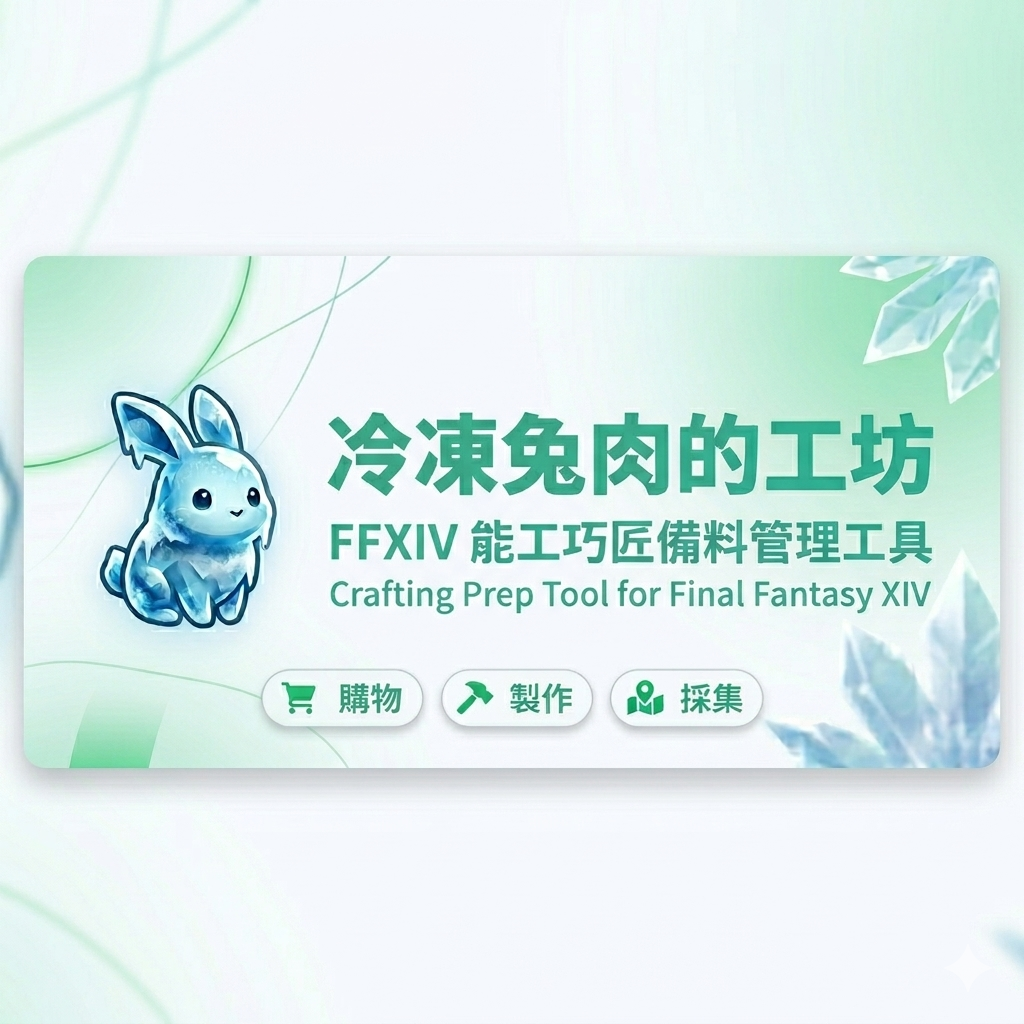
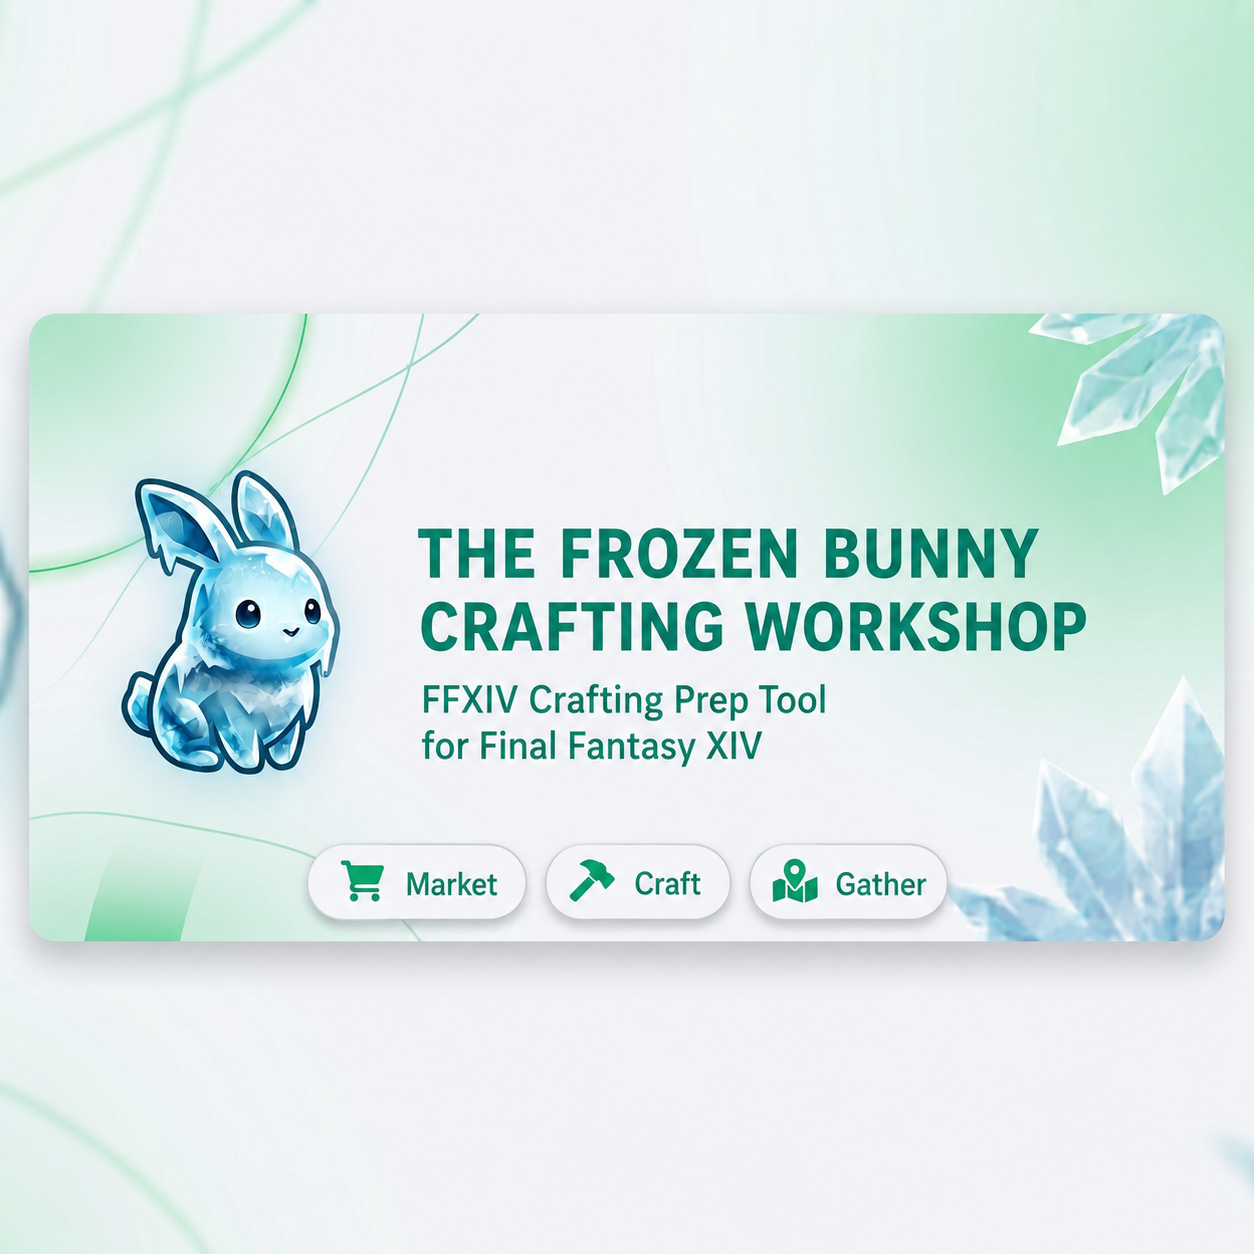
Update international SEO metadata

diff --git a/index.html b/index.html
@@ -1,120 +1,137 @@
 <!doctype html>
-<html lang="zh-TW">
+<html lang="en">
   <head>
     <meta charset="UTF-8" />
     <meta name="viewport" content="width=device-width, initial-scale=1.0" />
 
-    <!-- ===== 基本 SEO ===== -->
-    <title>冷凍兔肉的工坊 | FFXIV 能工巧匠備料管理工具</title>
-    <meta name="description" content="冷凍兔肉的工坊 — 為 FF14 / FFXIV 能工巧匠打造的備料管理神器。輸入製作清單，系統自動拆解配方、查詢市場即時價格、估算成本與時程，生成清晰的待辦清單。" />
-    <meta name="keywords" content="冷凍兔肉, 冷凍兔肉的工坊, FF14, FFXIV, 最終幻想14, 最終幻想XIV, 能工巧匠, 巧匠, 備料台, 備料管理, 製作清單, 採集, 市場板, Universalis, Teamcraft" />
-    <meta name="author" content="冷凍兔肉 (emu-rabbit)" />
+    <!-- SEO -->
+    <title>The Frozen Bunny Crafting Workshop | FFXIV Crafting Prep Tool</title>
+    <meta
+      name="description"
+      content="Plan Final Fantasy XIV crafting prep with market prices, material breakdowns, gathering routes, vendor checks, and multilingual item support."
+    />
+    <meta
+      name="keywords"
+      content="FFXIV crafting, Final Fantasy XIV crafting, FF14 crafting planner, FFXIV crafting prep, FFXIV market board, Universalis, Teamcraft, gathering routes, material calculator, Frozen Bunny Workshop"
+    />
+    <meta name="author" content="Frozen Bunny (emu-rabbit)" />
+    <meta name="application-name" content="The Frozen Bunny Crafting Workshop" />
+    <meta name="theme-color" content="#0f8a70" />
     <meta name="robots" content="index, follow" />
     <link rel="canonical" href="https://emu-rabbit.github.io/frozen_rabbit_workshop/" />
 
-    <!-- ===== 語言與地區 ===== -->
-    <meta name="language" content="zh-TW" />
+    <!-- Languages -->
+    <meta name="language" content="en" />
+    <link rel="alternate" hreflang="en" href="https://emu-rabbit.github.io/frozen_rabbit_workshop/" />
     <link rel="alternate" hreflang="zh-TW" href="https://emu-rabbit.github.io/frozen_rabbit_workshop/" />
     <link rel="alternate" hreflang="zh-Hans" href="https://emu-rabbit.github.io/frozen_rabbit_workshop/" />
-    <link rel="alternate" hreflang="en" href="https://emu-rabbit.github.io/frozen_rabbit_workshop/" />
     <link rel="alternate" hreflang="ja" href="https://emu-rabbit.github.io/frozen_rabbit_workshop/" />
     <link rel="alternate" hreflang="x-default" href="https://emu-rabbit.github.io/frozen_rabbit_workshop/" />
 
-    <!-- ===== Favicon ===== -->
+    <!-- Favicon -->
     <link rel="icon" type="image/png" href="/frozen_rabbit_workshop/logo.png" />
     <link rel="apple-touch-icon" href="/frozen_rabbit_workshop/logo.png" />
 
-    <!-- ===== Open Graph (Facebook / Discord / LINE 分享) ===== -->
+    <!-- Open Graph -->
     <meta property="og:type" content="website" />
     <meta property="og:url" content="https://emu-rabbit.github.io/frozen_rabbit_workshop/" />
-    <meta property="og:site_name" content="冷凍兔肉的工坊" />
-    <meta property="og:locale" content="zh_TW" />
+    <meta property="og:site_name" content="The Frozen Bunny Crafting Workshop" />
+    <meta property="og:locale" content="en_US" />
+    <meta property="og:locale:alternate" content="zh_TW" />
     <meta property="og:locale:alternate" content="zh_CN" />
-    <meta property="og:locale:alternate" content="en_US" />
     <meta property="og:locale:alternate" content="ja_JP" />
-    <meta property="og:title" content="冷凍兔肉的工坊 | FFXIV 能工巧匠備料管理工具" />
-    <meta property="og:description" content="為 FF14 / FFXIV 能工巧匠打造的備料管理神器。輸入製作清單，系統自動拆解配方、查詢市場即時價格、估算成本與時程，生成清晰的待辦清單。" />
+    <meta property="og:title" content="The Frozen Bunny Crafting Workshop | FFXIV Crafting Prep Tool" />
+    <meta
+      property="og:description"
+      content="A free FFXIV crafting prep tool for planning materials, comparing market prices, checking vendors, and organizing gathering work."
+    />
     <meta property="og:image" content="https://emu-rabbit.github.io/frozen_rabbit_workshop/og-cover.png" />
-    <meta property="og:image:width" content="1200" />
-    <meta property="og:image:height" content="630" />
-    <meta property="og:image:alt" content="冷凍兔肉的工坊 — FFXIV 能工巧匠備料管理工具" />
+    <meta property="og:image:secure_url" content="https://emu-rabbit.github.io/frozen_rabbit_workshop/og-cover.png" />
+    <meta property="og:image:type" content="image/png" />
+    <meta property="og:image:width" content="1254" />
+    <meta property="og:image:height" content="1254" />
+    <meta
+      property="og:image:alt"
+      content="The Frozen Bunny Crafting Workshop, an FFXIV crafting prep tool for market, craft, and gather planning."
+    />
 
-    <!-- ===== Twitter Card ===== -->
+    <!-- Twitter Card -->
     <meta name="twitter:card" content="summary_large_image" />
-    <meta name="twitter:title" content="冷凍兔肉的工坊 | FFXIV 能工巧匠備料管理工具" />
-    <meta name="twitter:description" content="為 FF14 / FFXIV 能工巧匠打造的備料管理神器。自動拆解配方、查市場價格、估算成本與時程。" />
+    <meta name="twitter:title" content="The Frozen Bunny Crafting Workshop | FFXIV Crafting Prep Tool" />
+    <meta
+      name="twitter:description"
+      content="Plan FFXIV crafting prep with material breakdowns, Universalis market prices, vendor checks, and gathering support."
+    />
     <meta name="twitter:image" content="https://emu-rabbit.github.io/frozen_rabbit_workshop/og-cover.png" />
-    <meta name="twitter:image:alt" content="冷凍兔肉的工坊 — FFXIV 能工巧匠備料管理工具" />
+    <meta
+      name="twitter:image:alt"
+      content="The Frozen Bunny Crafting Workshop, an FFXIV crafting prep tool for market, craft, and gather planning."
+    />
 
-    <!-- ===== JSON-LD 結構化資料 ===== -->
+    <!-- Structured Data -->
     <script type="application/ld+json">
-    {
-      "@context": "https://schema.org",
-      "@type": "WebApplication",
-      "name": "冷凍兔肉的工坊",
-      "alternateName": [
-        "Frozen Rabbit's Workshop", 
-        "冷凍ラビットの工房", 
-        "冷兔工坊",
-        "Frozen Rabbit Workshop"
-      ],
-      "description": "為 FFXIV（Final Fantasy XIV / FF14）能工巧匠設計的批次備料管理平台。可同時展開多個配方，根據市場即時價格與個人需求制定最優化籌備路徑，並生成分類清晰的待辦清單。",
-      "url": "https://emu-rabbit.github.io/frozen_rabbit_workshop/",
-      "applicationCategory": "GameApplication",
-      "applicationSubCategory": "Utility",
-      "operatingSystem": "Web",
-      "browserRequirements": "Requires JavaScript",
-      "inLanguage": ["zh-TW", "zh-Hans", "en", "ja"],
-      "isAccessibleForFree": true,
-      "author": {
-        "@type": "Person",
-        "name": "冷凍兔肉",
-        "url": "https://github.com/emu-rabbit"
-      },
-      "offers": {
-        "@type": "Offer",
-        "price": "0",
-        "priceCurrency": "TWD"
-      },
-      "keywords": "FFXIV, FF14, 最終幻想14, 能工巧匠, 巧匠, 備料台, 製作清單, 冷凍兔肉, Frozen Rabbit Workshop",
-      "image": "https://emu-rabbit.github.io/frozen_rabbit_workshop/og-cover.png",
-      "screenshot": "https://emu-rabbit.github.io/frozen_rabbit_workshop/og-cover.png",
-      "featureList": [
-        "配方自動拆解",
-        "市場即時價格查詢 (Universalis)",
-        "製作成本預算估算",
-        "採集地點與限時節點資訊",
-        "待辦清單一鍵生成",
-        "支援繁中、簡中、英文、日文"
-      ],
-      "mainEntityOfPage": {
-        "@type": "WebPage",
-        "@id": "https://emu-rabbit.github.io/frozen_rabbit_workshop/"
+      {
+        "@context": "https://schema.org",
+        "@type": "WebApplication",
+        "name": "The Frozen Bunny Crafting Workshop",
+        "alternateName": [
+          "Frozen Rabbit Workshop",
+          "Frozen Bunny Workshop",
+          "FFXIV Crafting Prep Tool"
+        ],
+        "description": "A free web application for Final Fantasy XIV players to plan crafting prep, review material requirements, compare Universalis market prices, check vendor sources, and organize gathering tasks.",
+        "url": "https://emu-rabbit.github.io/frozen_rabbit_workshop/",
+        "applicationCategory": "GameApplication",
+        "applicationSubCategory": "Utility",
+        "operatingSystem": "Web",
+        "browserRequirements": "Requires JavaScript",
+        "inLanguage": ["en", "zh-TW", "zh-Hans", "ja"],
+        "isAccessibleForFree": true,
+        "author": {
+          "@type": "Person",
+          "name": "Frozen Bunny",
+          "url": "https://github.com/emu-rabbit"
+        },
+        "offers": {
+          "@type": "Offer",
+          "price": "0",
+          "priceCurrency": "USD"
+        },
+        "keywords": "FFXIV, FF14, Final Fantasy XIV, crafting planner, crafting prep, market board, Universalis, Teamcraft, gathering routes, material calculator",
+        "image": "https://emu-rabbit.github.io/frozen_rabbit_workshop/og-cover.png",
+        "screenshot": "https://emu-rabbit.github.io/frozen_rabbit_workshop/og-cover.png",
+        "featureList": [
+          "Crafting material breakdowns",
+          "Universalis market price checks",
+          "Vendor source references",
+          "Gathering task planning",
+          "Multilingual item search",
+          "Shareable crafting prep lists"
+        ],
+        "mainEntityOfPage": {
+          "@type": "WebPage",
+          "@id": "https://emu-rabbit.github.io/frozen_rabbit_workshop/"
+        }
       }
-    }
     </script>
   </head>
   <body>
     <div id="app">
-      <!-- 靜態 noscript 內容，供停用 JavaScript 的搜尋爬蟲閱讀 -->
       <noscript>
         <div style="font-family: sans-serif; max-width: 800px; margin: 40px auto; padding: 20px; line-height: 1.8;">
-          <h1>冷凍兔肉的工坊 — FFXIV 能工巧匠備料管理工具</h1>
+          <h1>The Frozen Bunny Crafting Workshop</h1>
           <p>
-            <strong>冷凍兔肉的工坊</strong>是一個專為 <strong>FF14 / FFXIV（最終幻想14）</strong> 玩家設計的免費線上工具，
-            特別適合 <strong>能工巧匠（巧匠）</strong> 進行大量備料、製作規劃與開銷管理。
+            The Frozen Bunny Crafting Workshop is a free Final Fantasy XIV crafting prep tool for planning
+            materials, checking market prices, finding vendor sources, and organizing gathering work.
           </p>
-          <h2>主要功能</h2>
+          <h2>Core features</h2>
           <ul>
-            <li>🛠 <strong>備料台</strong>：輸入製作清單，系統自動拆解所有配方層級所需的素材。</li>
-            <li>💰 <strong>市場即時價格</strong>：串接 Universalis API 查詢各伺服器最新市場板價格，估算總備料成本。</li>
-            <li>📋 <strong>待辦清單生成</strong>：一鍵依購買、採集、製作分類生成行動清單，含 NPC 座標與採集地點。</li>
-            <li>⏰ <strong>限時採集節點</strong>：顯示 ET 時間與鬧鐘巨集，再也不會錯過限時素材。</li>
-            <li>🌐 <strong>多語系支援</strong>：繁體中文、簡體中文、English、日本語。</li>
+            <li>Break down FFXIV recipes into required materials and intermediate crafts.</li>
+            <li>Compare market board prices through Universalis data.</li>
+            <li>Check vendor availability and gathering requirements.</li>
+            <li>Plan multilingual crafting lists for English, Traditional Chinese, Simplified Chinese, and Japanese item names.</li>
           </ul>
-          <h2>資料來源</h2>
-          <p>物品、配方與採集資料由 <a href="https://ffxivteamcraft.com">Teamcraft</a> 提供；市場價格由 <a href="https://universalis.app">Universalis</a> 提供；圖示由 XIVAPI 提供。</p>
-          <p><em>本網站需要啟用 JavaScript 才能正常使用。</em></p>
+          <p>This application requires JavaScript to run.</p>
         </div>
       </noscript>
     </div>
